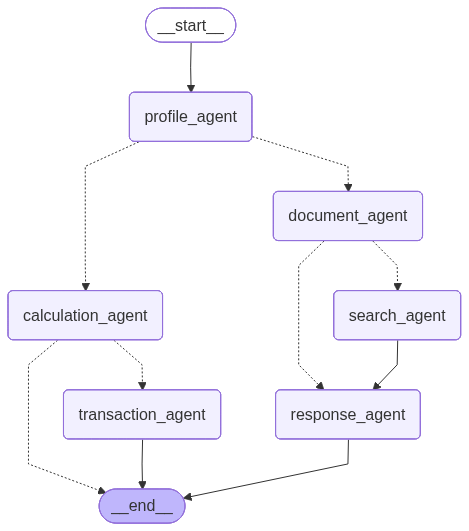
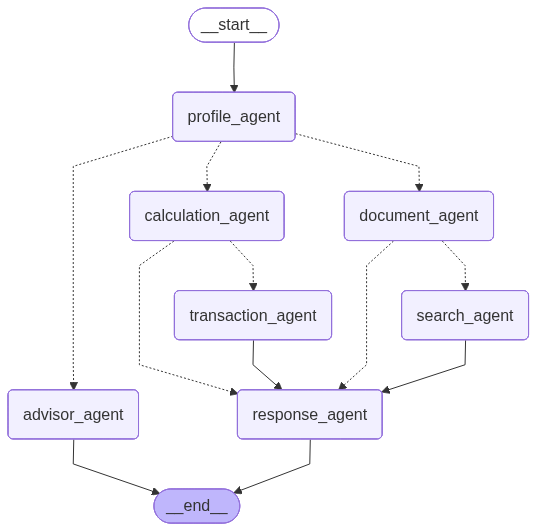
config

diff --git a/wxo_adk_external_agent/langgraph_python/scripts/upload_synthetic_data.py b/wxo_adk_external_agent/langgraph_python/scripts/upload_synthetic_data.py
@@ -38,8 +38,8 @@ TFSA_LIMITS = {
 
 FIRST_NAMES = ["Melanie", "Arjun", "Sofia", "Liam", "Noah", "Priya", "Wei", "Fatima",
                "Diego", "Chloe", "Omar", "Hana", "Lucas", "Ava", "Mateo", "Yuki",
-               "Ngozi", "Ravi", "Elena", "Tariq", "Mia", "Sven", "Aisha", "Carlos",
-               "Ingrid", "Jamal", "Leila", "Pierre", "Sara", "Tomas", "Nadia", "Kenji",
+               "David", "Ravi", "Elena", "Tariq", "Mia", "Sven", "Aisha", "Carlos",
+               "Ingrid", "Hannah", "Leila", "Pierre", "Sara", "Tomas", "Nadia", "Kenji",
                "Grace", "Hassan", "Olivia", "Dimitri"]
 LAST_NAMES = ["Tremblay", "Smith", "Patel", "Nguyen", "Garcia", "Khan", "Wang", "Okafor",
               "Brown", "Singh", "Rossi", "Kim", "Dubois", "Silva", "Cohen", "Ali",

diff --git a/wxo_adk_external_agent/langgraph_python/CAPABILITIES.md b/wxo_adk_external_agent/langgraph_python/CAPABILITIES.md
@@ -1,0 +1,133 @@
+# TFSA Agentic AI — Capabilities
+
+A LangGraph multi-agent assistant for Canadian Tax-Free Savings Account (TFSA) questions and
+contributions. It answers policy questions, calculates personal contribution room, executes
+contributions, and handles advisory/what-if questions — with structured audit logging throughout.
+
+## Flow (one entry, four lanes)
+
+```
+                          profile_agent  (entry; runs SUPERVISOR intent classifier)
+                                 │  intent = policy | room | contribute | advisory
+        ┌────────────────┬───────┴───────────┬────────────────────┐
+     policy            room               contribute            advisory
+        │                │                    │                     │
+   document_agent   calculation_agent   calculation_agent      advisor_agent
+        │                │                    │                  (LLM picks tools)
+  (search_agent          │              transaction_agent            │
+   if needs_search)      │                    │                      │
+        └──────┬─────────┴────────────────────┘                      │
+            response_agent  (synthesizes final answer)               │
+                 │                                                    │
+                END ◄───────────────────────────────────────────────┘
+```
+
+**Lanes**
+- **Policy:** `profile → document_agent → [search_agent if needed] → response_agent → END`
+- **Room:** `profile → calculation_agent → response_agent → END`
+- **Contribute:** `profile → calculation_agent → transaction_agent → response_agent → END`
+- **Advisory:** `profile → advisor_agent → END` (the advisor is itself an LLM agent that produces a
+  complete answer)
+
+## Agents / nodes
+
+| Node | LLM? | Role |
+|---|---|---|
+| `profile_agent` | LLM (router) | Entry. Classifies intent via the supervisor router; does **not** fetch a profile |
+| `document_agent` | LLM | Answers policy questions from S3-loaded limits + known rules; flags if live search is needed |
+| `search_agent` | LLM | Live CRA web search (Tavily → DuckDuckGo) + synthesis, when current data is needed |
+| `calculation_agent` | deterministic | Computes contribution room (pure Python math) |
+| `transaction_agent` | deterministic | Validates room/balance + executes a contribution |
+| `advisor_agent` | LLM (ReAct) | Advisory/compound/what-if questions — the LLM **selects its own read-only tools** |
+| `response_agent` | LLM | Final-answer synthesis for the policy/room/contribute lanes |
+
+## Tools
+
+**Action tools (invoked by specific nodes in Python):**
+
+| Tool | Used by | What it does |
+|---|---|---|
+| `retrieve_user_profile` | calc / transaction lanes | Load profile from S3 (built-in mock fallback) |
+| `search_cra_tfsa_policy` / `search_cra_tfsa_policy_duck_duck_go` | `search_agent` | Live CRA web search with Tavily → DuckDuckGo failover |
+| `execute_tfsa_contribution` | `transaction_agent` **only** | Moves money — gated to the deterministic lane |
+
+**Advisor read-only tools (the LLM chooses among these in `advisor_agent`):**
+
+| Tool | What it does |
+|---|---|
+| `get_tfsa_room(user_id)` | Available room + breakdown (shares the calc with `calculation_agent`) |
+| `get_transaction_history(user_id)` | Past contributions / withdrawals |
+| `lookup_tfsa_limit(year)` | One year's annual contribution limit |
+| `simulate_withdrawal(user_id, amount)` | "What if I withdraw X?" (re-added to room next calendar year) |
+| `project_future_room(user_id, years)` | Project available room forward |
+
+> Money movement (`execute_tfsa_contribution`) is intentionally **not** an advisor tool — only the
+> deterministic transaction lane can move money.
+
+## What it can answer
+- **Policy:** annual limits (any year, from the data source), over-contribution penalties,
+  eligibility, deadlines, withdrawal re-contribution rules.
+- **Personal room:** "how much can I contribute?" (requires a user id — see below).
+- **Contributions:** "contribute $500" → validated against room/balance, then executed.
+- **Advisory / what-if:** "what's my room and should I top up before year-end?",
+  "what if I withdraw $5k?", "how much room will I have in 2 years?" — LLM-planned with tools.
+- **Multi-turn:** remembers `user_id` / context per `thread_id`.
+
+## Passing a user id
+Identity is currently parsed from the message text (demo mechanism). Accepted phrasings
+(case-insensitive): `my user id is <id>`, `user id: <id>`, `id = <id>`, `user id <id>`
+(e.g. `my user id is user_123`). Once provided with a `thread_id`, it persists across turns.
+
+> Note: this is caller-supplied and unauthenticated — fine for a demo, **not** for production.
+> Real deployments must bind identity to a verified session (SSO/JWT).
+
+## Data sources
+S3 bucket `aws-hackathon-team2` → `profiles/`, `transactions/`, `tfsa_limits.json`. Falls back to
+a built-in mock profile + local `tfsa_limits.json` when S3 is unavailable (e.g. no credentials).
+Every profile load emits a `data_source: s3|mock` audit event so you can tell real data from the
+fallback.
+
+## Routing modes (`ROUTER_MODE`)
+- **`supervisor`** (default): an LLM classifies intent (`policy|room|contribute|advisory`). More
+  robust to phrasing; adds one LLM call per turn.
+- **`rules`**: deterministic regex router (no extra LLM call). Also the automatic fallback if the
+  supervisor LLM call fails.
+
+## Observability (logged per turn)
+Structured JSON events on the `agent.audit` logger:
+`invocation_start` / `invocation_end` · `routing_decision` (which branch + why) ·
+`agent_reasoning` · `llm_call_start` / `llm_call_end` (prompt identity, tokens, **chosen
+`tool_calls`**, native `thinking` when `ENABLE_THINKING=true`) · `tool_call_start` / `tool_call`
+(name, args, result, duration) · `data_source` (s3|mock) · `node_error`.
+
+Inspect any turn locally:
+```
+./.venv/bin/python scripts/inspect_audit_events.py "my user id is user_123, what's my room?"
+```
+
+## Reliability
+- Concurrency-safe: blocking work is offloaded off the event loop; the TFSA limits refresh uses a
+  double-checked lock + atomic file write.
+- LLM calls have bounded timeouts + retries (with jittered backoff) and never return an empty
+  reply — failures fall back to a useful message.
+- Web search fails over Tavily → DuckDuckGo and tolerates Tavily's non-raising error payloads.
+
+## Configuration (env)
+| Var | Purpose |
+|---|---|
+| `AI_SERVICES_PROVIDER` | `bedrock` \| `watsonxai` \| `openai` \| `deepseek` \| `ollama` |
+| `BEDROCK_MODEL_ID`, `AWS_REGION` | Bedrock model + region |
+| `BEDROCK_MAX_ATTEMPTS`, `BEDROCK_READ_TIMEOUT`, `BEDROCK_MAX_TOKENS` | Bedrock client resilience |
+| `LLM_INVOKE_ATTEMPTS` | App-level LLM retry count |
+| `ROUTER_MODE` | `supervisor` (default) \| `rules` |
+| `ENABLE_THINKING` | Log native model reasoning on `llm_call_end` (Bedrock/Claude) |
+| `DATA_S3_BUCKET`, `PROFILE_S3_PREFIX`, `TRANSACTIONS_S3_PREFIX`, `LIMITS_S3_KEY`, `DATA_S3_REGION` | S3 data source |
+| `TAVILY_API_KEY` | Tavily search (falls back to DuckDuckGo if absent/over quota) |
+
+## Known limitations
+- **Identity is caller-supplied** (parsed from text), not authenticated — demo only.
+- **Room accrual** starts at the profile's `first_tfsa_year`; if that field means "account-opened
+  year" rather than "first eligible year", room is understated for users eligible before they
+  opened an account (TFSA room accrues from age-18 / 2009 onward).
+- **`execute_tfsa_contribution` is a mock** banking call — no real transfer, confirmation step,
+  idempotency, or fraud checks yet.
